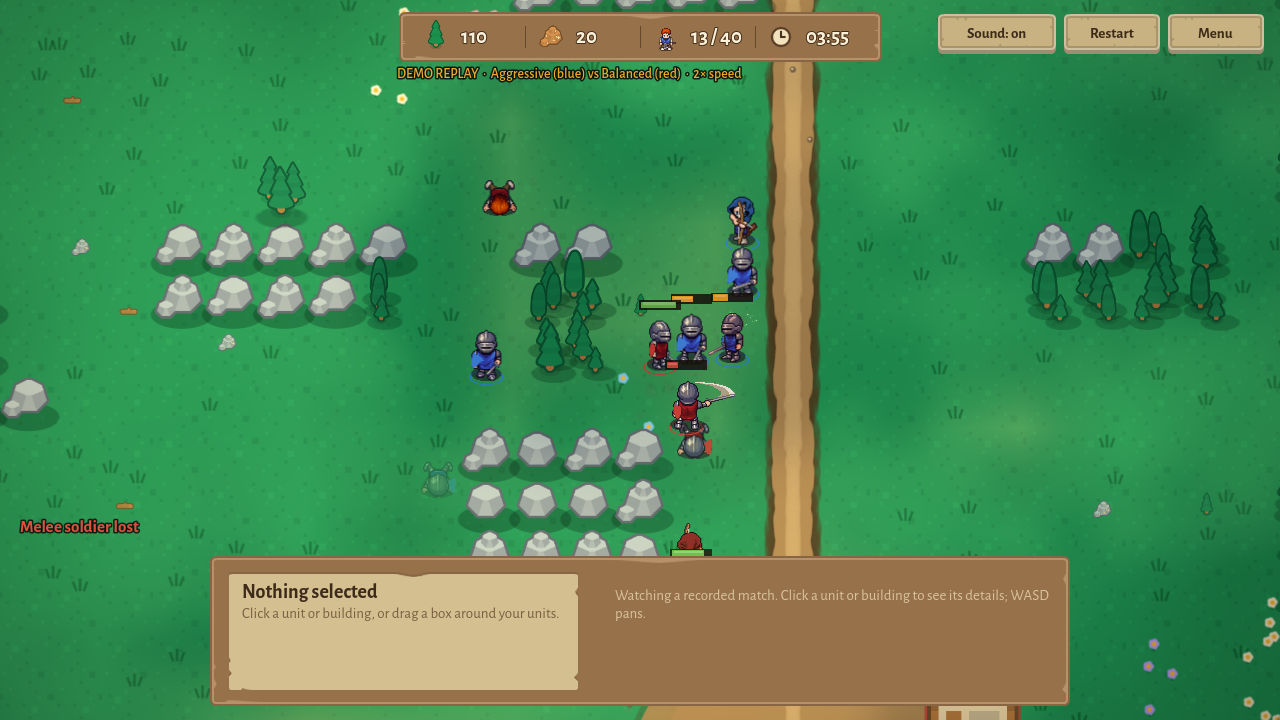
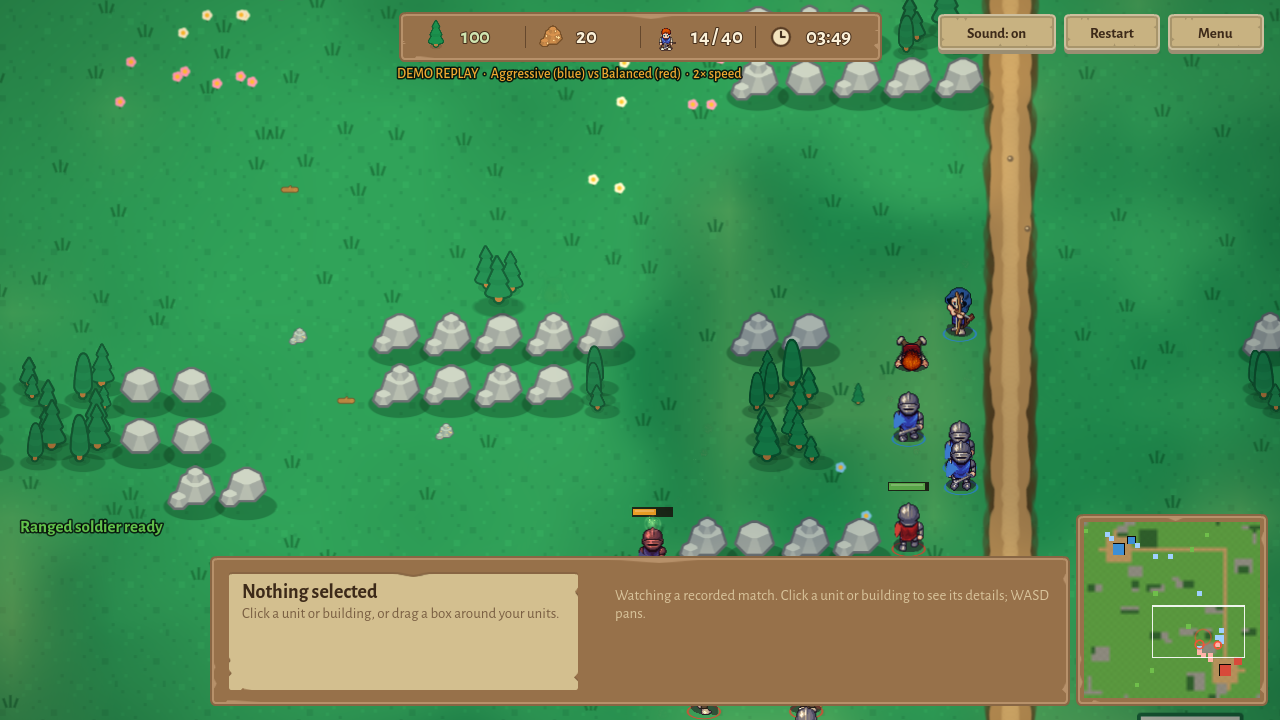
Step 11: minimap with fog, pings, camera frame and click orders (D-43)
- scripts/ui/minimap.gd in the HUD's bottom-right corner: terrain, the
  player's fog, nodes, buildings and ghosts, own units and only visible
  enemy units (everything in the demo), red pings at fights the player
  sees, the camera's view as a frame; redrawn 10 times a second.
- Left click or drag moves the camera; right click gives the selection the
  same context order as a right click on the map. No edge-panning while
  the mouse is over it.
- test_minimap.gd (4 tests: mapping, no fog leak, camera click, order click);
  fast suite 188/188. D-43, README controls, test plan, learning log.
- AC-77 re-measured with the current build: desktop 82-85 FPS, web 66-72 FPS
  (an earlier 207 FPS desktop run did not repeat).

Claude-Session: https://claude.ai/code/session_01VL5or8vBSK5wV3AmG1q2zT

diff --git a/SPEC.md b/SPEC.md
@@ -573,6 +573,7 @@ Steps 7 and 8 both depend only on step 6, so they can be built in either order o
 | D-22 | 2026-10-15 | AC-10 symmetry compares footprints: a w × h building anchored at `(x, y)` mirrors to the anchor `(48 − w − x, 48 − h − y)` (a 3 × 3 HQ: `(45 − x, 45 − y)`) | Compare anchors with `(47 − x, 47 − y)` | Anchors are top-left cells, so mirroring a multi-cell footprint shifts the anchor |
 | D-23 | 2026-10-15 | `retreat_fraction` stored as an integer percentage (40, 25, 50); the check is `army * 100 < pct * start_army` | Floating-point fraction | The AI is in `scripts/sim/`, which is integer-only |
 | D-24 | 2026-10-15 | A non-soldier given an `attack` order returns `invalid_target` (AC-47) | A new result code | Uses an existing code |
+| D-43 | 2026-10-17 | Build step 11 started (at the user's request, while AC-78 and AC-84 still wait for their manual checks) with the minimap: bottom-right of the HUD, 176 px on its longest side; terrain (grass, forest, rock, roads), the player's fog (unexplored dark, explored dimmed), nodes and buildings as the player remembers them (ghosts for unseen enemy buildings), own units and only the enemy units visible now (everything in the demo), red pings at fights the player sees, and the camera's view as a frame. Left click or drag moves the camera; right click gives the selection the same context order as a right click on the map. Presentation only, checked by `test_minimap.gd` | A minimap that shows every unit; a separate minimap window | It must leak nothing the fog hides (the same rule as the main view, AC-56); orders through it use the same context-order path as the map, so no new command is needed |
 | D-42 | 2026-10-17 | Spacing (`scripts/sim/spacing.gd`): units still pass through each other while walking (no blocking, so no jams or deadlocks) but do not stop on one cell. (1) A group move gives each unit its own cell: the unit nearest the goal stands on it, the rest fill free cells ring by ring, each taking the ring's free cell nearest to itself (a blocked goal still returns `no_path`, AC-28). (2) A melee soldier attacking a unit walks to the free cell next to the target nearest to itself (the target's own cell only if all eight are taken), re-planning when the target changes cell; attackers of a building head for a touching cell nobody holds. (3) Every 5 ticks, units standing still on a cell another (lower-id) unit stands on step to a free neighbour (straight neighbours first, then diagonals); an attacker only steps where its target stays in range. Gathering and building workers are left alone. AC-27 reworded accordingly; the demo replay was re-recorded, the strategy experiment re-run (same ranking; Balanced vs Balanced still shows no start bias) and the long suite re-run (184 / 184) under the new rules. On screen the camera zoom went from 1.35 to 1.6 with soldiers kept at the same screen size, so a soldier is a little smaller than a cell and neighbours do not overlap, and melee fighters are drawn standing back slightly from their enemy | Hard one-unit-per-cell collision with waiting and re-routing; spacing on screen only | The user found fights clumsy ("they are just merging into one another") and chose a rule change over a visual-only fix; soft spacing gives clear lines of fighters without the deadlocks of hard collision |
 | D-41 | 2026-10-17 | Fights redone at the user's request (units did not really animate, fights looked like a blob, no sound, units too small): units are animated Liberated Pixel Cup characters (walk, sword slash, bow shot, axe chop, pickaxe mining, hammering, falling when killed; 4 directions), assembled from LPC parts by `tools/make_units.gd` in blue and red, drawn one sprite pixel per screen pixel (about 50 px tall); the ranged soldier is drawn as an archer whose arrows fly at the bow's release frame, and sword sparks come when the swing connects; nearby units push apart on screen (drawing only, D-04 unchanged, so AC-27 still holds); damage numbers only on buildings; CC0 sound effects (Kenney) and music (cynicmusic), the battle theme fading in while fighting is on screen, `M` to mute. The LPC art is CC-BY-SA 3.0, so `assets/lpc/CREDITS.md` and an in-game Credits screen name every artist (checked by a test) | Ninja Adventure pack (CC0, but a different art style for the whole game); keep the still Kenney units and animate them in code | The user chose LPC: the only medieval set with real frame-by-frame combat animations in four directions; CC-BY-SA is permitted by rule L1 as long as each source and licence is recorded |
 | D-40 | 2026-10-17 | AC-77 is measured by a built-in benchmark mode (`-- --bench` on the desktop, `?bench` on the web): the seed-42 map with 80 units (40 per side, placed around each HQ by the simulation's setup helper, the same one the tests use), both armies sent to the middle, no AI, no fog, 15 s after a 2 s warm-up; it reports average FPS and the 1 % low. Unit shadows and team rings are stamped from two cached textures and world health bars are plain rectangles, instead of anti-aliased shapes tessellated every frame | Measure by hand with F3 during a match | Repeatable on any machine, desktop and web alike; the drawing change lifted the desktop result from 72 to 109 FPS (1 % low 29 to 50) |

diff --git a/docs/test-plan.md b/docs/test-plan.md
@@ -80,7 +80,7 @@ Every acceptance criterion of SPEC section 12 and how it is checked. Automated t
 | AC-74 | FR-13 | A main menu starts a match, and the victory or defeat overlay offers a restart. | Automated: `test_ui_logic.gd`: `test_ac_74_menu_starts_a_match_and_overlay_restarts_it` | Pass |
 | AC-75 | FR-13 | All controls in section 9 work, including placement preview with a valid or invalid colour. | Automated + screenshots: Selection, context orders, HUD and camera logic tests (AC-21 to AC-23, AC-73, AC-76); every control checked on screenshots in steps 7 and 10; the manual checklist in `docs/playtest.md` | Pass (manual checklist pending) |
 | AC-76 | FR-13 | The camera pans with the keys and screen edges and never leaves the map. | Automated: `test_ui_logic.gd`: `test_ac_76_camera_never_leaves_the_map`<br>`test_ui_logic.gd`: `test_ac_76_edge_pan_direction` | Pass |
-| AC-77 |  | (initial target) On a laptop, the desktop build holds 60 frames per second with 80 units on the map, and th… | Measured with the benchmark mode (`MiniRTS.exe -- --bench`, or `?bench` on the web address): 80 units (40 per side), 15 s, every unit drawn; results in `docs/playtest.md`. Set-up checked by `test_benchmark.gd`: `test_ac_77_benchmark_starts_with_80_units_and_no_fog` | Pass (desktop 207 FPS, web 66 to 67 FPS average) |
+| AC-77 |  | (initial target) On a laptop, the desktop build holds 60 frames per second with 80 units on the map, and th… | Measured with the benchmark mode (`MiniRTS.exe -- --bench`, or `?bench` on the web address): 80 units (40 per side), 15 s, every unit drawn; results in `docs/playtest.md`. Set-up checked by `test_benchmark.gd`: `test_ac_77_benchmark_starts_with_80_units_and_no_fog` | Pass (desktop 82 to 85 FPS, web 66 to 72 FPS average) |
 | AC-78 | FR-13 | The manual play-test checklist passes and is recorded: a new player can select and command a unit; a player… | Manual checklist: `docs/playtest.md` items 1–5 | Pending (you) |
 | AC-79 | D3 | From a fresh clone with only Docker installed, `docker compose up -d` serves the game at `http://localhost:… | Manual check: Fresh clone into an empty folder, `docker compose up -d`, game served at :8080; demo played to the end in the browser (step 10) | Pass |
 | AC-80 | D2, D4 | `docker compose ps` reports the container as healthy, killing the server process makes it restart and becom… | Manual check: `docker compose ps` healthy; `kill 1` in the container → restarted (restart count 1) and healthy; runs as uid 101 | Pass |
@@ -102,3 +102,5 @@ Every acceptance criterion of SPEC section 12 and how it is checked. Automated t
 | AC-96 |  | Each decision in section 19 that you changed during the project is updated in the log with the reason. | Automated: `test_docs.gd`: `test_ac_96_every_decision_has_a_date_and_a_reason` | Pass |
 
 Pending items need a person: AC-78 (play-test checklist), AC-84 (second device). AC-86 is optional and done.
+
+**Build step 11 (stretch, no acceptance criteria).** Minimap (D-43): `test_minimap.gd`: `test_minimap_mapping_round_trips`, `test_minimap_shows_only_what_the_player_may_see`, `test_minimap_left_click_moves_the_camera`, `test_minimap_right_click_orders_the_selection`.

diff --git a/docs/measurements.md b/docs/measurements.md
@@ -13,7 +13,7 @@ Performance targets marked *(initial target)* in SPEC section 12, with the measu
 | AC-69 | A 30-minute match headless in ≤ 30 s | **7.8 s** per 36,000 ticks (Balanced vs Balanced, 3,311 ticks in 0.7 s, scaled) | 2026-10-17 | `test_ac_69_full_match_runs_at_least_60_times_real_time` |
 | AC-70 | Wilson 95 % CI for 120 / 200 ≈ [0.531, 0.665] | **[0.531, 0.665]** (± 0.002) | 2026-10-17 | `test_ac_70_wilson_interval_120_of_200` |
 | AC-71 | Balanced vs Balanced: no start-position bias (95 % CI contains 0.5) | Player start won **45 of 96** decided seeds, Wilson CI **[0.372, 0.568]**: contains 0.5 (re-run under the spacing rules of D-42; first run: 44 of 92, [0.379, 0.579]) (side A's own rate is 0.5 by construction, see `docs/experiment.md`) | 2026-10-17 | `tools/run_matches.gd`, 100 seeds × 2; `docs/experiment/balanced_vs_balanced.csv` |
-| AC-77 | Desktop ≥ 60 FPS, web ≥ 30 FPS with 80 units | Desktop **207 FPS** average (1 % low 73); web **66 to 67 FPS** average (1 % low 27 to 31), with the animated units and sound of D-41, the spacing of D-42 and zoom 1.6 | 2026-10-17 | Laptop, NVIDIA GeForce RTX 4050 Laptop GPU, Windows 11; benchmark mode (D-40): `MiniRTS.exe -- --bench` and Microsoft Edge with `?bench`, 1280 × 720, 15 s |
+| AC-77 | Desktop ≥ 60 FPS, web ≥ 30 FPS with 80 units | Desktop **82 to 85 FPS** average (1 % low 39 to 50); web **66 to 72 FPS** average (1 % low 23 to 30); current build with D-41 to D-43 | 2026-10-17 | Laptop, NVIDIA GeForce RTX 4050 Laptop GPU, Windows 11; benchmark mode (D-40): `MiniRTS.exe -- --bench` and Microsoft Edge with `?bench`, 1280 × 720, 15 s |
 | AC-72 | Pairwise report over ≥ 200 matches each | Aggressive beats Balanced 0.857 [0.801, 0.899]; Balanced beats EconomyFirst 0.766; Aggressive beats EconomyFirst 0.964 [0.928, 0.983] | 2026-10-17 | `docs/experiment.md`, `docs/experiment-tables.md` |
 | AC-80 | Container healthy, restarts after a crash, non-root | Healthy; after `kill 1` restarted (restart count 1) and healthy again within 7 s; runs as uid 101 (nginx) | 2026-10-17 | `docker compose ps`, `docker inspect`, `docker compose exec web id` |
 | AC-82 | Headers, compression, CSP, no third-party requests | `.wasm` `application/wasm`; `.wasm`/`.pck`/`.js` gzip; CSP with script and style hashes; 7 requests, all to the same origin | 2026-10-17 | `curl -I`; headless Edge request log |

diff --git a/docs/learning-log.md b/docs/learning-log.md
@@ -271,3 +271,20 @@ Mixing up which side won: the simulation reports "victory_player" or "victory_ai
 
 **One thing that could go wrong**
 Playing back a replay while the viewer can still issue commands would change the match and break the replay. In demo mode `Game.issue()` refuses every command, and a test checks it.
+
+---
+
+## Step 11 (stretch): the minimap (decision D-43)
+
+**What was built**
+- `scripts/ui/minimap.gd`: a small picture of the whole map in the HUD's bottom-right corner. Terrain is drawn once into a tiny image (one pixel per cell, scaled up); the fog is a second tiny image recoloured only when the simulation's fog changes; units, buildings and nodes are small squares drawn every frame; a white frame shows what the camera sees; red rings ping fights.
+- Left click or drag moves the camera; right click sends the selected units there with the same context order as a right click on the map.
+
+**Why it is designed this way**
+- *The minimap obeys the fog exactly like the main view.* `markers()` uses the same rules: nodes and enemy buildings as the player remembers them, enemy units only in cells visible now. A minimap that showed everything would let the player cheat in a way the AI cannot (the AI's observation firewall, AC-59 to AC-61); a test checks that no hidden enemy unit appears.
+- *Orders reuse the existing path.* A right click on the minimap converts the minimap position to a world position and calls the same function as a right click on the map, so move, harvest and attack keep their rules, and the simulation needs no new command.
+- *Cheap to draw.* The two images are the size of the map in cells (48 × 48 pixels), so updating them costs almost nothing; only the markers change every frame.
+
+**One thing that could go wrong**
+The camera frame and the click mapping depend on the zoom. If the zoom changes (as it did from 1.35 to 1.6 in D-42) and only one of them is updated, clicks land beside where the frame says. Both use `Game.view_rect()` / `to_world()` from the same numbers, and a test clicks the minimap's centre and checks the camera ends up at the map's centre.
+

diff --git a/docs/playtest.md b/docs/playtest.md
@@ -18,10 +18,10 @@ Measured with the built-in benchmark (decision D-40): the seed-42 map with exact
 
 | Build | Target | Average | 1 % low | Machine | Date |
 | --- | --- | --- | --- | --- | --- |
-| Desktop (`MiniRTS.exe`, Windows 11) | ≥ 60 FPS | **207 FPS** | 73 FPS | Laptop, NVIDIA GeForce RTX 4050 Laptop GPU, OpenGL 3.3 | 2026-10-17 |
-| Web (Microsoft Edge, WebGL 2) | ≥ 30 FPS | **66 to 67 FPS** (two runs) | 27 to 31 FPS | Same laptop | 2026-10-17 |
+| Desktop (`MiniRTS.exe`, Windows 11, on mains power) | ≥ 60 FPS | **82 to 85 FPS** (two runs) | 39 to 50 FPS | Laptop, NVIDIA GeForce RTX 4050 Laptop GPU, OpenGL 3.3 | 2026-10-17 |
+| Web (Microsoft Edge, WebGL 2) | ≥ 30 FPS | **66 to 72 FPS** (two runs) | 23 to 30 FPS | Same laptop | 2026-10-17 |
 
-These are the results with the animated LPC units, sound and music (D-41), the spacing rules (D-42) and the closer camera (zoom 1.6, so fewer cells and units are on screen at once). With D-41 at zoom 1.35 the same benchmark gave 85 FPS desktop and 70 to 73 FPS web. Before D-41 the same benchmark gave 109 FPS desktop and 80 FPS web: the animated units, the on-screen separation and the sound cost about 2 to 6 ms a frame.
+These are the results of the current build: animated LPC units, sound and music (D-41), spacing (D-42), zoom 1.6 and the minimap (D-43). Results vary from run to run: one earlier desktop run gave 207 FPS that later runs did not repeat, so the table gives the repeatable range. Most of a frame (3 to 7 ms) is drawing the units and buildings in GDScript. Before D-41 the same benchmark gave 109 FPS desktop and 80 FPS web: the animated units, the on-screen separation and the sound cost about 2 to 6 ms a frame.
 
 Before the drawing fix of D-40 the desktop build measured 72 FPS average (29 FPS 1 % low); world drawing then took 5 to 12 ms a frame and now takes 1 to 4 ms. The 1 % low (the average of the slowest 1 % of frames) shows occasional slower frames below 60 on the desktop; the average meets the target.
 

diff --git a/README.md b/README.md
@@ -111,6 +111,7 @@ godot --rendering-driver opengl3 --script res://tools/make_icon.gd -- assets/ico
 | `WASD` or the screen edges | Pan the camera (`W` trains a melee soldier while a building is selected) |
 | `F3` | Frames per second, unit count and the AI's current state |
 | `M` (or the Sound button) | Sound and music on / off (remembered) |
+| Minimap (bottom right) | Left click or drag: move the camera there · right click: order the selected units there |
 
 Disabled buttons show the reason on hover (for example *Need 60 wood · 20 gold*). Messages fade after 3 seconds.
 
@@ -223,7 +224,7 @@ Policies are the same machine with different numbers:
 
 Test names follow the acceptance criteria (for example `test_ac_13_wall_with_gap`). [`docs/test-plan.md`](docs/test-plan.md) lists every acceptance criterion with its test or manual check; [`docs/measurements.md`](docs/measurements.md) has the measured performance numbers.
 
-**Frame rate (AC-77).** A built-in benchmark puts 80 units on the map (40 per side), lets them march and fight with every effect on, and measures 15 seconds: run `MiniRTS.exe -- --bench`, or add `?bench` to the web address. On a laptop with an RTX 4050 the desktop build averaged **207 FPS** (target 60) and the web build in Edge **66 to 67 FPS** (target 30); details in [`docs/playtest.md`](docs/playtest.md).
+**Frame rate (AC-77).** A built-in benchmark puts 80 units on the map (40 per side), lets them march and fight with every effect on, and measures 15 seconds: run `MiniRTS.exe -- --bench`, or add `?bench` to the web address. On a laptop with an RTX 4050 the desktop build averaged **82 to 85 FPS** (target 60) and the web build in Edge **66 to 72 FPS** (target 30); details in [`docs/playtest.md`](docs/playtest.md).
 
 ## Deployment
 
